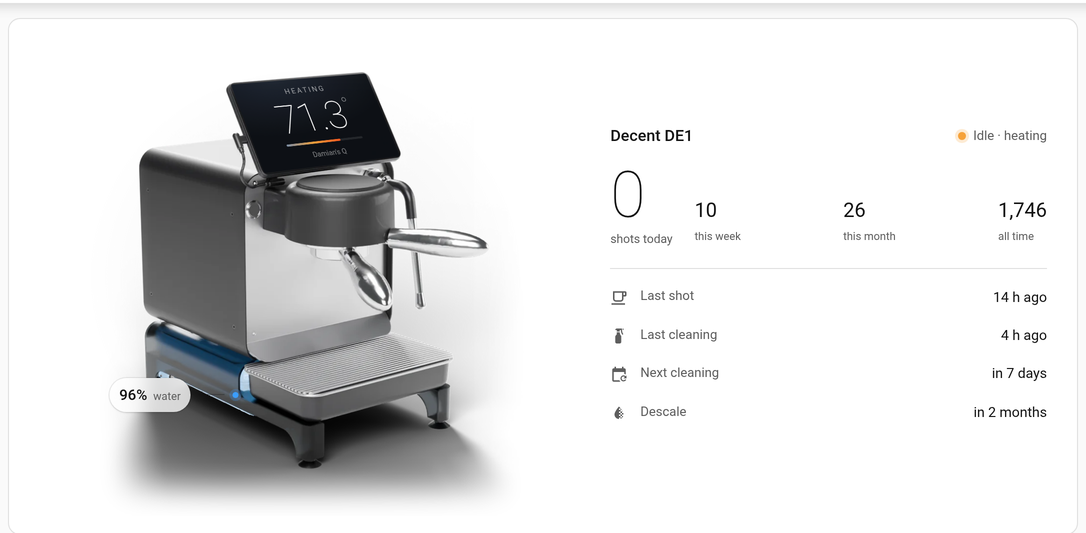
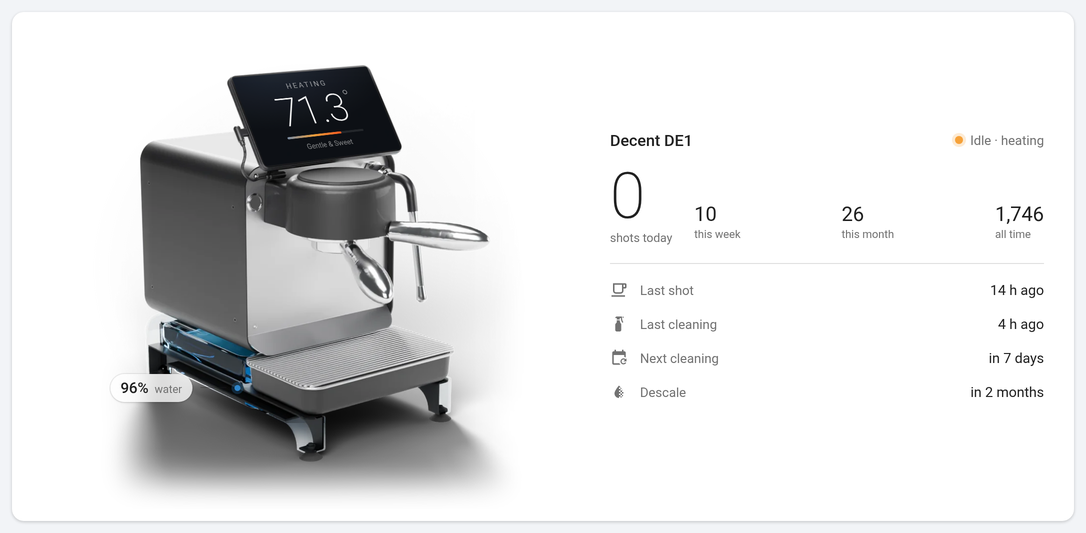
Refresh the README screenshots, and commit the harness they come from
demo/demo.html stands in for a Home Assistant dashboard — stubbed ha-card and
ha-icon, HA's theme variables, a scripted fake hass — and demo/capture.py drives
it in headless Chromium to write images/. The GIF and both screenshots now come
from that, so they show the glass tank instead of the old smoked-glass base.

diff --git a/demo/demo.html b/demo/demo.html
@@ -1,0 +1,150 @@
+<!doctype html>
+<!--
+  Stand-in for a Home Assistant dashboard, used to record images/ without a running
+  HA. It stubs the two HA elements the card renders into, sets the theme variables
+  the card reads, and drives it with a scripted fake hass. capture.py loads it in
+  headless Chromium; opening it in a browser works too (the demo loops).
+-->
+<meta charset="utf-8">
+<title>Decent DE1 card demo</title>
+<link rel="preconnect" href="https://fonts.gstatic.com" crossorigin>
+<link rel="stylesheet" href="https://fonts.googleapis.com/css2?family=Roboto:wght@100;200;300;400;500;700&display=block">
+<style>
+  /* Home Assistant's default themes, the variables the card actually reads */
+  :root, :root[data-theme="dark"] {
+    --primary-text-color: #e1e1e1;
+    --secondary-text-color: #9b9b9b;
+    --card-background-color: #1c1c1c;
+    --ha-card-background: #1c1c1c;
+    --divider-color: rgba(225,225,225,.12);
+    --page-background: #111111;
+  }
+  :root[data-theme="light"] {
+    --primary-text-color: #212121;
+    --secondary-text-color: #727272;
+    --card-background-color: #fff;
+    --ha-card-background: #fff;
+    --divider-color: rgba(0,0,0,.12);
+    --page-background: #f2f4f7;
+  }
+  :root {
+    --error-color: #db4437;
+    --warning-color: #ffa600;
+    --ha-font-family-body: Roboto, sans-serif;
+    --mdc-icon-size: 24px;
+  }
+  html, body { margin: 0; height: 100%; background: var(--page-background); }
+  body { padding: 12px; box-sizing: border-box; font-family: Roboto, sans-serif; }
+  decent-de1-card { display: block; height: 100%; }
+  /* ?fit lets the card be as tall as its content instead of filling the viewport;
+     capture.py then shrinks the viewport to match, for a still with no dead space */
+  html.fit, html.fit body, html.fit decent-de1-card { height: auto; }
+</style>
+<script>
+  // Icon paths from @mdi/js (Material Design Icons, Apache-2.0).
+  const ICONS = {
+    'mdi:coffee-outline': 'M2,21V19H20V21H2M20,8V5H18V8H20M20,3A2,2 0 0,1 22,5V8A2,2 0 0,1 20,10H18V13A4,4 0 0,1 14,17H8A4,4 0 0,1 4,13V3H20M16,5H6V13A2,2 0 0,0 8,15H14A2,2 0 0,0 16,13V5Z',
+    'mdi:spray-bottle': 'M16.72 10.43C14.68 8.39 14.5 4.66 14.5 4H13V6H9V4H7C7 2.9 7.9 2 9 2H16V3C16 3.08 16.04 7.63 17.78 9.37L16.72 10.43M17 2V4H18V2H17M15 12C13 10 13 7 13 7H9V9C9 10 9 10 8 11S7 13 7 13V20C7 21.1 7.9 22 9 22H13C14.1 22 15 21.1 15 20V12Z',
+    'mdi:calendar-refresh': 'M19 3H18V1H16V3H8V1H6V3H5C3.9 3 3 3.9 3 5V19C3 20.1 3.9 21 5 21H14C13.4 20.5 12.9 19.8 12.5 19H5V8H19V10.6C19.7 10.7 20.4 10.9 21 11.3V5C21 3.9 20.1 3 19 3M18 12.5C19.1 12.5 20.1 12.9 20.8 13.7L22 12.5V16.5H18L19.8 14.7C19.3 14.3 18.7 14 18 14C16.6 14 15.5 15.1 15.5 16.5S16.6 19 18 19C18.8 19 19.5 18.6 20 18H21.7C21.1 19.5 19.7 20.5 18 20.5C15.8 20.5 14 18.7 14 16.5S15.8 12.5 18 12.5Z',
+    'mdi:water-opacity': 'M16 14V12H17.61C17.85 12.71 18 13.39 18 14H16M15.58 8C15.12 7.29 14.65 6.61 14.2 6H14V8H15.58M16 12V10H14V12H16M16 8.68V10H16.74C16.5 9.56 16.26 9.11 16 8.68M12 16V14H14V12H12V10H14V8H12V6H14V5.73C12.9 4.26 12 3.25 12 3.25S6 10 6 14C6 17.31 8.69 20 12 20V18H14V16H12M14 19.65C14.75 19.39 15.42 19 16 18.46V18H14V19.65M14 16H16V14H14V16M16 18H16.46C17 17.42 17.39 16.75 17.65 16H16V18Z'
+  };
+  customElements.define('ha-card', class extends HTMLElement {
+    connectedCallback() {
+      this.style.cssText = 'display:block;height:100%;box-sizing:border-box;border-radius:12px;' +
+        'background:var(--ha-card-background);color:var(--primary-text-color);' +
+        'box-shadow:0 1px 3px rgba(0,0,0,.2);overflow:hidden';
+    }
+  });
+  customElements.define('ha-icon', class extends HTMLElement {
+    connectedCallback() {
+      const size = getComputedStyle(this).getPropertyValue('--mdc-icon-size') || '24px';
+      this.style.cssText = `display:inline-flex;width:${size};height:${size}`;
+      this.innerHTML = `<svg viewBox="0 0 24 24" style="width:100%;height:100%;fill:currentColor">` +
+        `<path d="${ICONS[this.getAttribute('icon')] || ''}"/></svg>`;
+    }
+  });
+  const params = new URLSearchParams(location.search);
+  document.documentElement.dataset.theme = params.get('theme') === 'light' ? 'light' : 'dark';
+  if (params.has('fit')) document.documentElement.classList.add('fit');
+</script>
+<script src="../dist/decent-de1-card.js"></script>
+<decent-de1-card id="card"></decent-de1-card>
+<script>
+const MIN = 60000, HOUR = 3600000, DAY = 86400000;
+const now = Date.now();
+const iso = (ms) => new Date(ms).toISOString();
+// input_datetime entities carry local time without an offset
+const local = (ms) => new Date(ms - new Date().getTimezoneOffset() * MIN).toISOString().slice(0, 19).replace('T', ' ');
+
+const card = document.getElementById('card');
+card.setConfig({
+  prefix: 'decent_de1_',
+  shots_today: 'sensor.shots_today', shots_week: 'sensor.shots_week',
+  shots_month: 'sensor.shots_month', shots_total: 'sensor.shots_total',
+  last_shot: 'input_datetime.last_shot', last_cleaning: 'input_datetime.last_cleaning',
+  cleaning_due: 'sensor.cleaning_due', descale_due: 'sensor.descale_due',
+});
+
+let tick = 0;
+function push(s) {
+  tick++;  // the card skips the update unless last_updated moved
+  const st = (id, state, attrs) => [id, { state: String(state), attributes: attrs || {}, last_updated: iso(now + tick) }];
+  card.hass = {
+    states: Object.fromEntries([
+      st('sensor.decent_de1_machine_state', s.state),
+      st('sensor.decent_de1_machine_substate', s.sub),
+      st('sensor.decent_de1_group_temperature', s.temp.toFixed(1), { unit_of_measurement: '°C' }),
+      st('sensor.decent_de1_water_level', Math.round(s.water), { unit_of_measurement: '%' }),
+      st('sensor.decent_de1_profile', s.profile),
+      st('binary_sensor.decent_de1_shot_running', s.pouring ? 'on' : 'off'),
+      st('sensor.shots_today', s.shots), st('sensor.shots_week', 10),
+      st('sensor.shots_month', 26), st('sensor.shots_total', 1746),
+      st('input_datetime.last_shot', local(now - s.lastShot)),
+      st('input_datetime.last_cleaning', local(now - 4 * HOUR)),
+      st('sensor.cleaning_due', local(now + 7 * DAY)),
+      st('sensor.descale_due', local(now + 62 * DAY)),
+    ]),
+  };
+}
+
+const lerp = (a, b, u) => a + (b - a) * Math.max(0, Math.min(1, u));
+const ease = (u) => (u < 0 ? 0 : u > 1 ? 1 : u * u * (3 - 2 * u));
+const DURATION = 15200;
+
+// The story: asleep, wake and heat, pull a shot, then run the tank down and refill.
+// It ends where it started, so the GIF loops.
+function frameAt(t) {
+  // Real sensors report in steps; a value that moved every frame would redraw the
+  // big digits twelve times a second, which the GIF pays for.
+  const q = (ms) => Math.round(t / ms) * ms;
+  const s = { state: 'Sleep', sub: 'ready', temp: 22, water: 100, profile: 'Gentle & Sweet', pouring: false, shots: 2, lastShot: 3 * HOUR };
+  if (t >= 1300) { s.state = 'Idle'; s.sub = 'heating'; s.temp = lerp(22, 93, ease((t - 1300) / 2900)); }
+  if (t >= 4300) { s.state = 'Idle'; s.sub = 'ready'; s.temp = 93 - 0.2 * Math.sin(q(900) / 700); }
+  if (t >= 5200 && t < 7600) {
+    s.state = 'Espresso'; s.sub = 'pouring'; s.pouring = true;
+    s.temp = 92.7 - 0.3 * Math.sin((q(600) - 5200) / 400);
+    s.water = lerp(100, 93, (t - 5200) / 2400);
+  }
+  if (t >= 7600) { s.state = 'Idle'; s.sub = 'ready'; s.water = 93; s.shots = 3; s.lastShot = 30 * 1000; }
+  if (t >= 8400) s.water = lerp(93, 6, ease((t - 8400) / 3600));   // the tank runs down
+  if (t >= 12300) s.water = lerp(6, 100, ease((t - 12300) / 1500)); // and is refilled
+  if (t >= 14100) { s.state = 'Sleep'; s.sub = 'ready'; s.temp = lerp(93, 22, (t - 14100) / 900); s.water = 100; }
+  return s;
+}
+
+// capture.py's hooks: freeze one set of values, or play the loop.
+window.showState = (overrides) => push({ ...frameAt(0), ...overrides });
+window.startDemo = () => {
+  let t0 = null;
+  const loop = (ts) => {
+    if (t0 === null) t0 = ts;
+    push(frameAt(Math.min(DURATION, ts - t0)));
+    requestAnimationFrame(loop);
+  };
+  requestAnimationFrame(loop);
+};
+push(frameAt(0));
+// fonts, then a beat for the first water layer to decode and fade in
+window.demoReady = document.fonts.ready.then(() => new Promise((r) => setTimeout(r, 600)));
+if (!params.has('still')) window.demoReady.then(window.startDemo);
+</script>

diff --git a/demo/capture.py b/demo/capture.py
@@ -1,0 +1,186 @@
+"""Record images/ from demo.html in headless Chromium.
+
+    python3 capture.py            # all three
+    python3 capture.py gif        # or: desktop, phone
+
+Needs chromium, ffmpeg, Pillow and websockets. demo.html pulls Roboto from Google
+Fonts, so this wants a network connection; everything else is local.
+"""
+import asyncio, base64, io, json, os, shutil, subprocess, sys, tempfile, time, urllib.request
+import websockets
+from PIL import Image
+
+HERE = os.path.dirname(os.path.abspath(__file__))
+ROOT = os.path.dirname(HERE)
+IMAGES = os.path.join(ROOT, "images")
+PORT, DEBUG_PORT = 8765, 9222
+
+GIF = dict(w=760, h=456, fps=12.5, seconds=15.2)   # the story in demo.html is 15.2 s long
+STILLS = {
+    "desktop": dict(file="desktop-light-heating.png", theme="light", w=1086, h=533, scale=2,
+                    state=dict(state="Idle", sub="heating", temp=71.3, water=96, shots=0,
+                               lastShot=14 * 3600 * 1000)),
+    "phone": dict(file="phone-dark.png", theme="dark", w=400, h=749, scale=2, fit=True,
+                  state=dict(state="Idle", sub="ready", temp=92.9, water=52, shots=3,
+                             lastShot=3 * 60 * 1000)),
+}
+
+
+class Chrome:
+    """Just enough CDP to drive one page."""
+
+    def __init__(self, width, height, scale):
+        self.size = (width, height, scale)
+        self.proc = subprocess.Popen([
+            "chromium", "--headless=new", f"--remote-debugging-port={DEBUG_PORT}", "--no-sandbox",
+            "--hide-scrollbars", "--force-color-profile=srgb", "--disable-lcd-text",
+            f"--window-size={width},{height}", "about:blank",
+        ], stdout=subprocess.DEVNULL, stderr=subprocess.DEVNULL)
+
+    def _ws_url(self):
+        for _ in range(80):
+            try:
+                targets = json.load(urllib.request.urlopen(f"http://127.0.0.1:{DEBUG_PORT}/json"))
+                # skip the bundled extension's background page: we want the real tab
+                return next(t for t in targets if t["type"] == "page"
+                            and not t["url"].startswith("chrome-extension://"))["webSocketDebuggerUrl"]
+            except Exception:
+                time.sleep(0.25)
+        raise SystemExit("chromium did not come up")
+
+    async def __aenter__(self):
+        self.ws = await websockets.connect(self._ws_url(), max_size=64 * 1024 * 1024)
+        self._id = 0
+        self.on_frame = None
+        w, h, scale = self.size
+        await self.cmd("Page.enable")
+        await self.cmd("Emulation.setDeviceMetricsOverride", width=w, height=h,
+                       deviceScaleFactor=scale, mobile=False)
+        return self
+
+    async def __aexit__(self, *exc):
+        await self.ws.close()
+        self.proc.terminate()
+
+    async def pump(self, until_id):
+        while True:
+            msg = json.loads(await self.ws.recv())
+            if msg.get("method") == "Page.screencastFrame":
+                p = msg["params"]
+                await self.ws.send(json.dumps({"id": 10_000, "method": "Page.screencastFrameAck",
+                                               "params": {"sessionId": p["sessionId"]}}))
+                if self.on_frame:
+                    self.on_frame(p["metadata"]["timestamp"], base64.b64decode(p["data"]))
+            elif msg.get("id") == until_id:
+                if "error" in msg:
+                    raise SystemExit(f"{msg['error']}")
+                return msg.get("result", {})
+
+    async def cmd(self, method, **params):
+        self._id += 1
+        await self.ws.send(json.dumps({"id": self._id, "method": method, "params": params}))
+        return await self.pump(self._id)
+
+    async def eval(self, expression, **kw):
+        r = await self.cmd("Runtime.evaluate", expression=expression, **kw)
+        if "exceptionDetails" in r:
+            raise SystemExit(r["exceptionDetails"]["exception"].get("description", "page error"))
+        return r.get("result", {}).get("value")
+
+    async def open(self, query):
+        await self.cmd("Page.navigate", url=f"http://127.0.0.1:{PORT}/demo/demo.html{query}")
+        for _ in range(120):
+            if await self.eval("window.demoReady ? window.demoReady.then(()=>1) : 0", awaitPromise=True) == 1:
+                return
+            await asyncio.sleep(0.25)
+        raise SystemExit("demo.html never became ready")
+
+
+def serve():
+    return subprocess.Popen([sys.executable, "-m", "http.server", str(PORT), "-d", ROOT],
+                            stdout=subprocess.DEVNULL, stderr=subprocess.DEVNULL)
+
+
+async def shoot(name):
+    """One still: freeze a set of values, let the transitions land, screenshot."""
+    s = STILLS[name]
+    async with Chrome(s["w"], s["h"], s["scale"]) as c:
+        await c.open(f"?still&theme={s['theme']}" + ("&fit" if s.get("fit") else ""))
+        await c.eval(f"window.showState({json.dumps(s['state'])})")
+        await asyncio.sleep(2.0)                 # screen fade, heat bar and water cross-fade
+        if s.get("fit"):                         # trim the viewport to the card
+            # scrollHeight never drops below the viewport, so measure the body itself
+            h = await c.eval("Math.ceil(document.body.getBoundingClientRect().height)")
+            await c.cmd("Emulation.setDeviceMetricsOverride", width=s["w"], height=h,
+                        deviceScaleFactor=s["scale"], mobile=False)
+            await asyncio.sleep(0.4)
+        shot = await c.cmd("Page.captureScreenshot", format="png", fromSurface=True)
+    im = Image.open(io.BytesIO(base64.b64decode(shot["data"]))).convert("RGB")
+    if name == "desktop":                        # recorded at 2x, delivered at 1x
+        im = im.resize((s["w"], s["h"]), Image.LANCZOS)
+    out = os.path.join(IMAGES, s["file"])
+    im.save(out)
+    print(f"{s['file']}  {im.size[0]}x{im.size[1]}  {os.path.getsize(out) // 1024} KB")
+
+
+async def record(tmp):
+    """The story, as PNG frames stamped with the page's clock.
+
+    Page.captureScreenshot costs ~110 ms a frame, slower than the animation runs;
+    the screencast is push-based and keeps up. PNG, not JPEG: JPEG noise makes
+    otherwise static pixels differ, which defeats the GIF's inter-frame diffing.
+    """
+    frames = []
+    async with Chrome(GIF["w"], GIF["h"], 2) as c:   # 2x, downsampled later for clean text
+        await c.open("?still")                       # hold still until the screencast is up
+        c.on_frame = lambda t, data: frames.append((t, data))
+        await c.cmd("Page.startScreencast", format="png", maxWidth=GIF["w"] * 2,
+                    maxHeight=GIF["h"] * 2, everyNthFrame=1)
+        await c.eval("window.startDemo()")
+        try:
+            await asyncio.wait_for(c.pump(until_id=-1), timeout=GIF["seconds"] + 0.4)
+        except asyncio.TimeoutError:
+            pass
+        await c.cmd("Page.stopScreencast")
+
+    t0 = frames[0][0]
+    stamps = [t - t0 for t, _ in frames]
+    print(f"screencast: {len(frames)} frames, {len(frames)/stamps[-1]:.0f} fps")
+    n, j = int(GIF["seconds"] * GIF["fps"]), 0
+    for i in range(n):                            # resample onto an even grid
+        t = i / GIF["fps"]
+        while j + 1 < len(stamps) and abs(stamps[j + 1] - t) <= abs(stamps[j] - t):
+            j += 1
+        im = Image.open(io.BytesIO(frames[j][1])).convert("RGB")
+        im.resize((GIF["w"], GIF["h"]), Image.LANCZOS).save(f"{tmp}/s{i:04d}.png")
+    return n
+
+
+async def gif():
+    with tempfile.TemporaryDirectory() as tmp:
+        n = await record(tmp)
+        out = os.path.join(IMAGES, "demo.gif")
+        # One palette for the whole clip, no dithering: the render is mostly smooth
+        # greys, and a dither pattern both shows and stops frames from compressing.
+        run = lambda *a: subprocess.run(["ffmpeg", "-v", "error", "-y", *a], check=True)
+        run("-framerate", str(GIF["fps"]), "-i", f"{tmp}/s%04d.png",
+            "-vf", "palettegen=stats_mode=diff:max_colors=256", f"{tmp}/palette.png")
+        run("-framerate", str(GIF["fps"]), "-i", f"{tmp}/s%04d.png", "-i", f"{tmp}/palette.png",
+            "-lavfi", "paletteuse=dither=none:diff_mode=rectangle", "-loop", "0", out)
+        print(f"demo.gif  {GIF['w']}x{GIF['h']}  {n} frames  {os.path.getsize(out) // 1024} KB")
+
+
+async def main(which):
+    srv = serve()
+    try:
+        for w in which:
+            await (gif() if w == "gif" else shoot(w))
+    finally:
+        srv.terminate()
+
+
+if __name__ == "__main__":
+    for tool in ("chromium", "ffmpeg"):
+        if not shutil.which(tool):
+            raise SystemExit(f"{tool} is not on PATH")
+    asyncio.run(main(sys.argv[1:] or ["gif", "desktop", "phone"]))

diff --git a/README.md b/README.md
@@ -82,6 +82,12 @@ descale_due: sensor.descale_decent
 4. `python3 assets.py` crops the renders and keeps only the pixels that change with the water level. It also exports where the tablet screen and tank sit in the image, and writes `render/assets.json`.
 5. `python3 build.py` embeds the assets into `dist/decent-de1-card.js`.
 
+## How the images in this README are made
+
+`demo/demo.html` stands in for a Home Assistant dashboard: it stubs the two HA elements the card renders into, sets the theme variables the card reads, and drives it with a scripted fake `hass` — asleep, heating, a shot, then the tank running down and refilling. Open it in a browser and it loops.
+
+`python3 demo/capture.py` records that in headless Chromium over the DevTools protocol and writes `images/demo.gif` and the two screenshots; `capture.py gif`, `capture.py desktop` or `capture.py phone` does one of them. It needs `chromium`, `ffmpeg`, Pillow and `websockets`, and a network connection for the font.
+
 ## Credits
 
 The machine model comes from the CAD files [Decent Espresso publishes for free](https://decentespresso.com/blog/decent_espresso_cad_files). This project is not affiliated with or endorsed by Decent Espresso. "Decent" and "DE1" are their trademarks.
